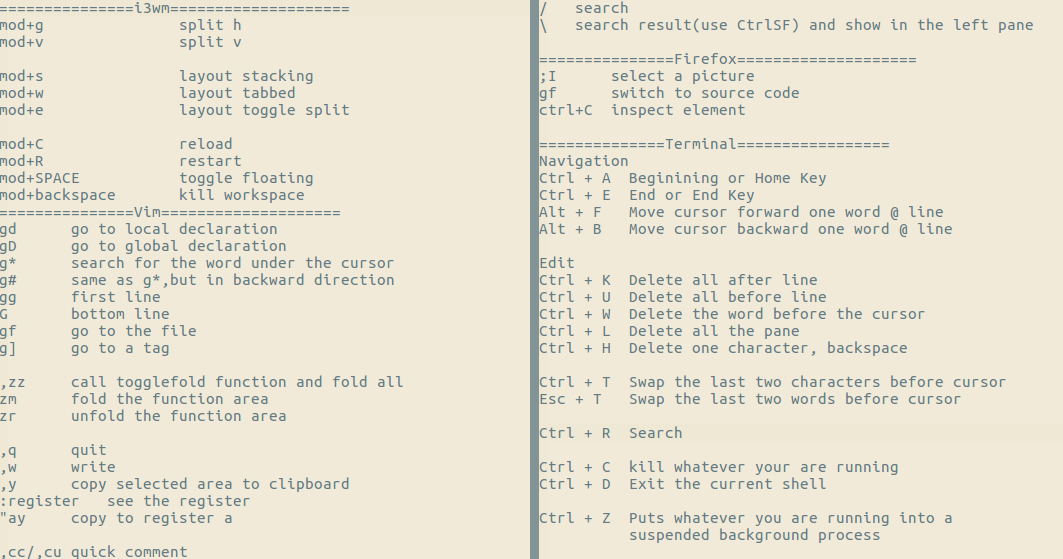
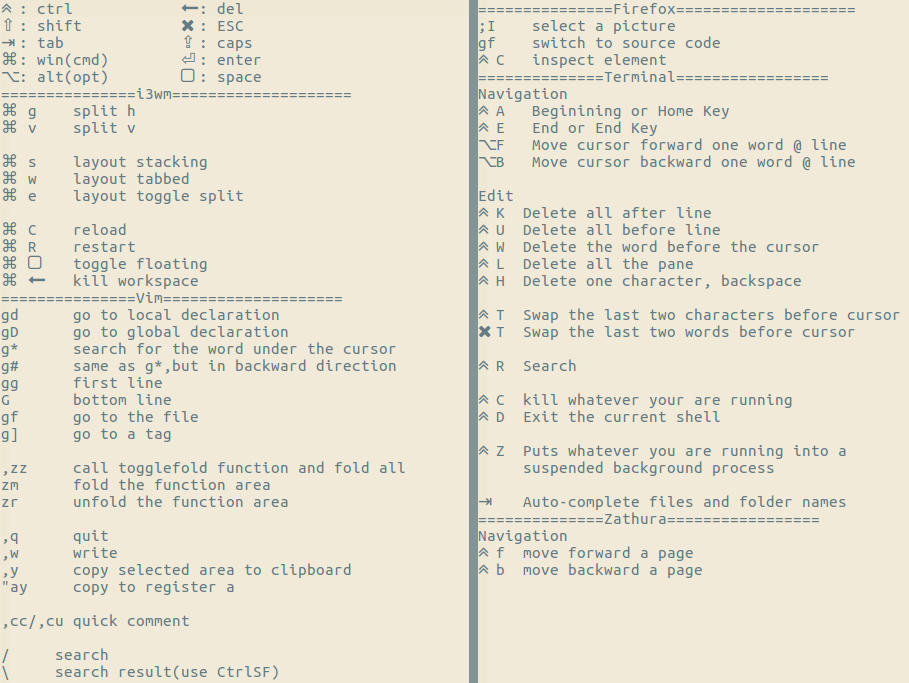
up helper

Changed region(s): [[0.4928, 0.0, 0.9857, 1.0], [0.0, 0.0, 0.4312, 1.0], [0.5853, 0.9123, 0.8933, 0.9732]]

diff --git a/help-doc/linux-problem.md b/help-doc/linux-problem.md
@@ -516,6 +516,11 @@ Gramma/Language Check
 LanguageTool => work for plain text
 <http://tex.stackexchange.com/questions/6333/grammar-checking-tool-for-use-with-latex>
 
+2. print or
+:hardcopy > file
+:hardcopy > file.pdf
+:Tohtml     # but seem ugly
+
 #### English - Check Tools
 1. Download:vim-plugin
     <http://www.vim.org/scripts/script.php?script_id=3223>

diff --git a/shell/_i3/README.md b/shell/_i3/README.md
@@ -28,3 +28,6 @@ If you are on Arch Linux (or Arch Linux based distributions), you might want to 
 ```
 
 When new package updates become available, the status bar will notify you, showing a shield symbol and the amount of new packages available.
+
+# Font Support
+http://tech.karbassi.com/2009/05/27/command-option-shift-symbols-in-unicode/

diff --git a/help-doc/linux-Vim-Life.md b/help-doc/linux-Vim-Life.md
@@ -112,6 +112,7 @@ xorg-xbacklight
 
 font-install : <http://askubuntu.com/questions/3697/how-do-i-install-fonts>
 <https://github.com/FortAwesome/Font-Awesome>
+Font Awesome CheatSheet<http://fontawesome.io/cheatsheet/>
 ```
 apt-get install ttf-fontname
 # if no such font, download
